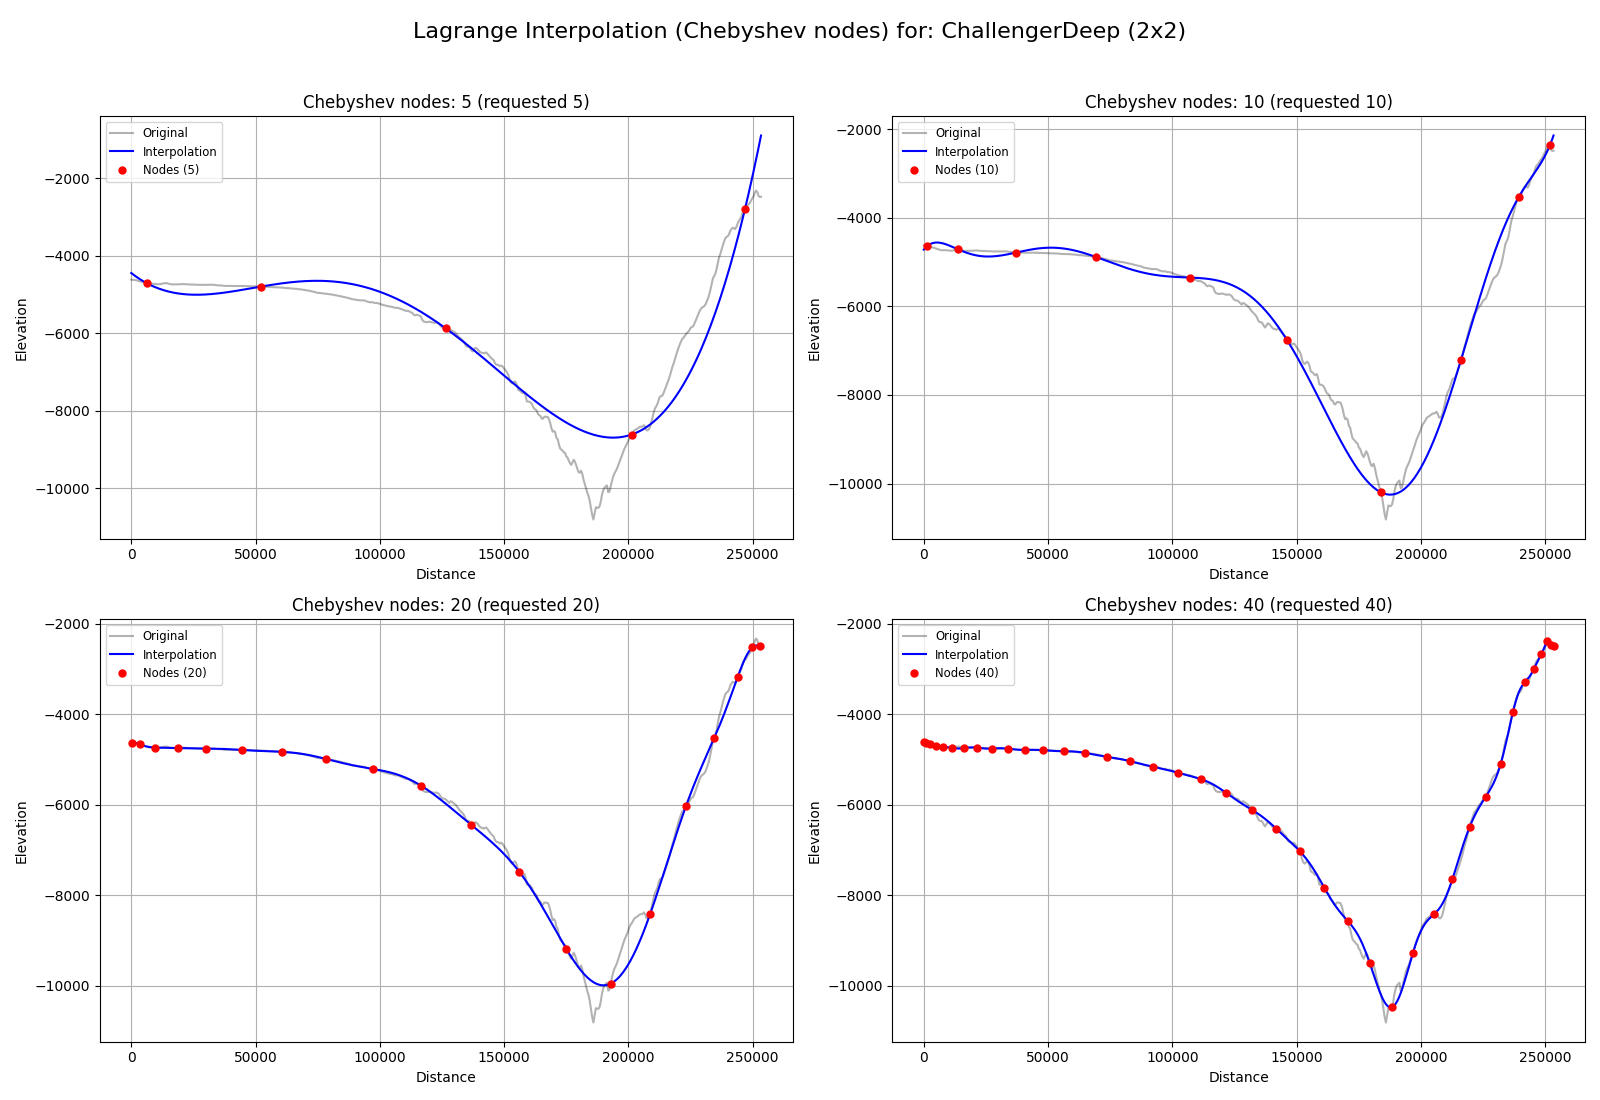
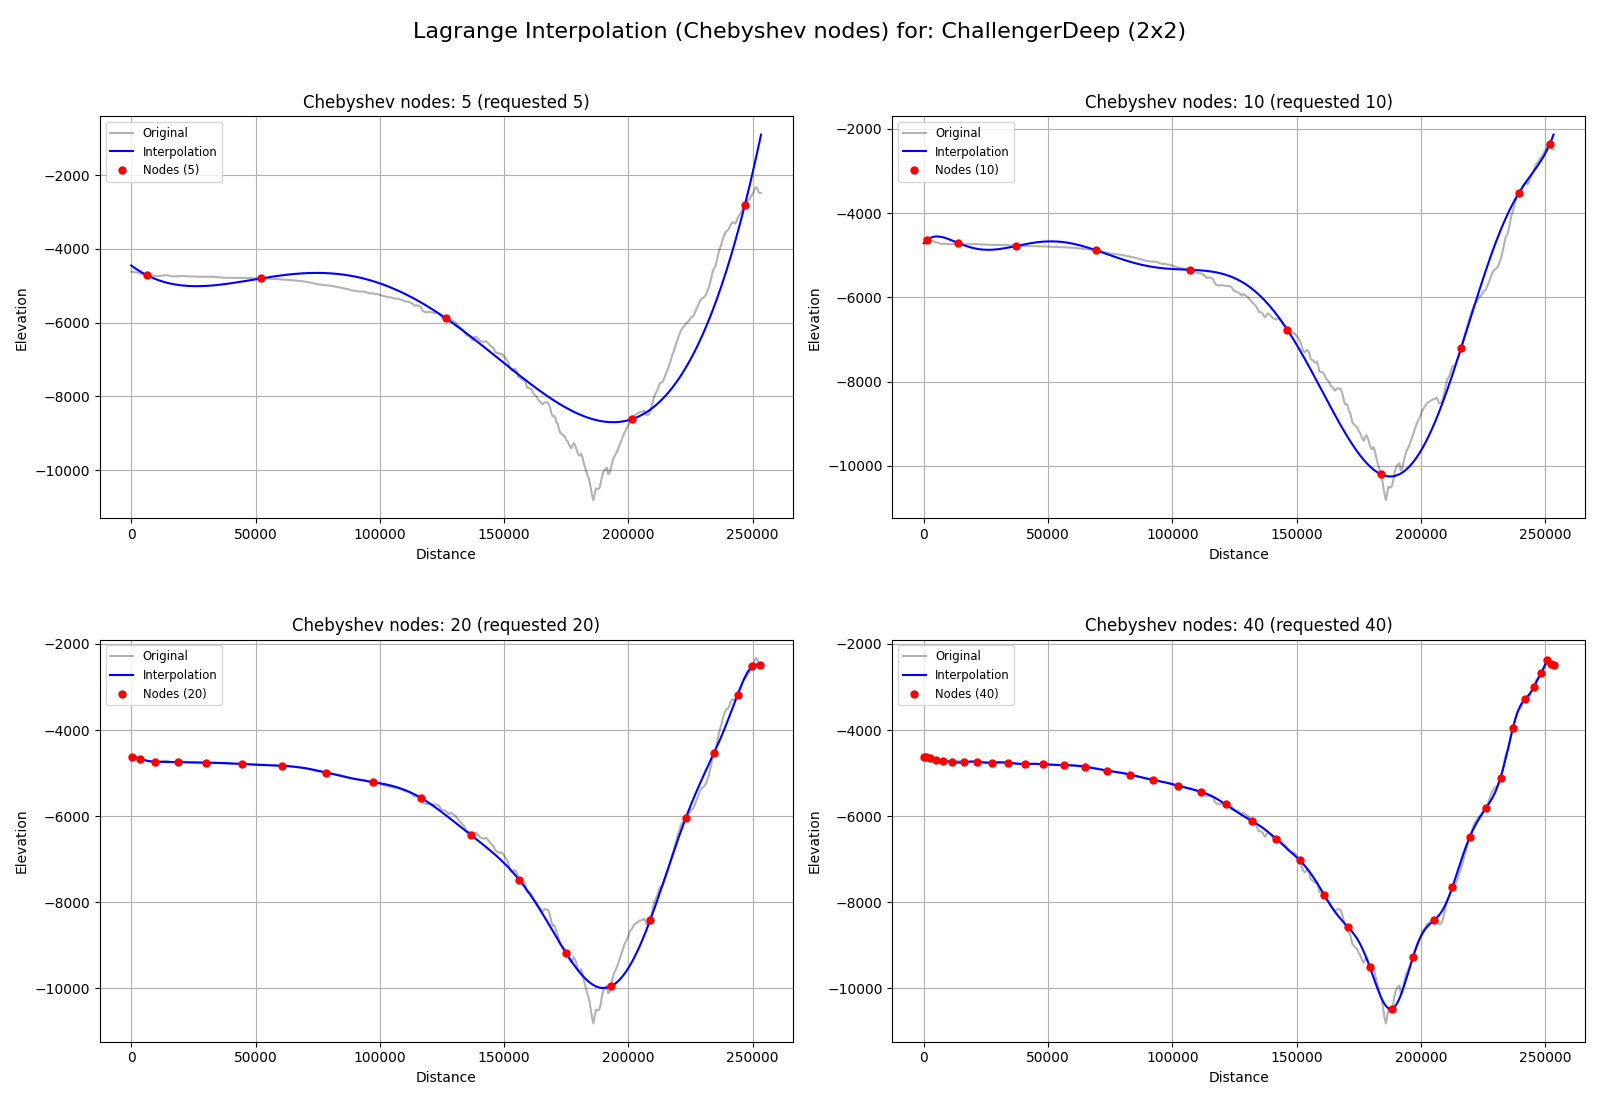
Added vertical padding to plots to avoid overlap

diff --git a/Sem4/MN/project3/main.py b/Sem4/MN/project3/main.py
@@ -207,7 +207,7 @@ def plot_interpolations(plot_data, title, filename, cols=2):
     for j in range(i + 1, len(axes)):
         fig.delaxes(axes[j])
     fig.suptitle(title, fontsize=16)
-    plt.tight_layout(rect=(0, 0, 1, 0.96))
+    plt.tight_layout(rect=(0, 0, 1, 0.96), h_pad=4.0)  
     plt.savefig(filename)
     print(f"Saved plot: {filename}")
     if SHOW_PLOTS:
